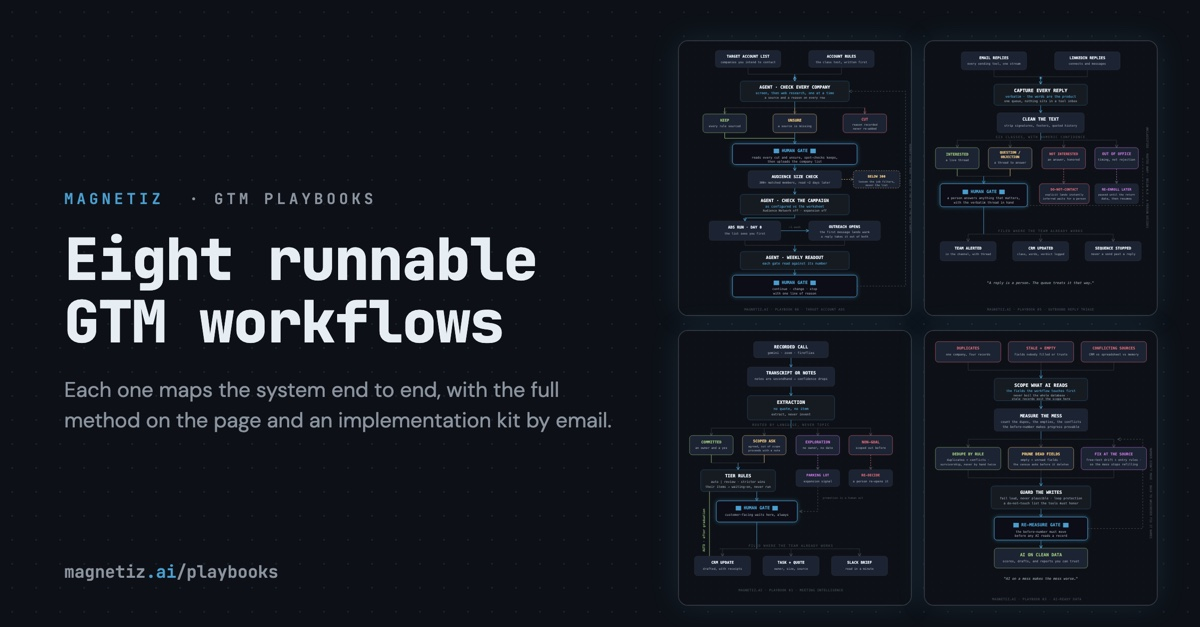
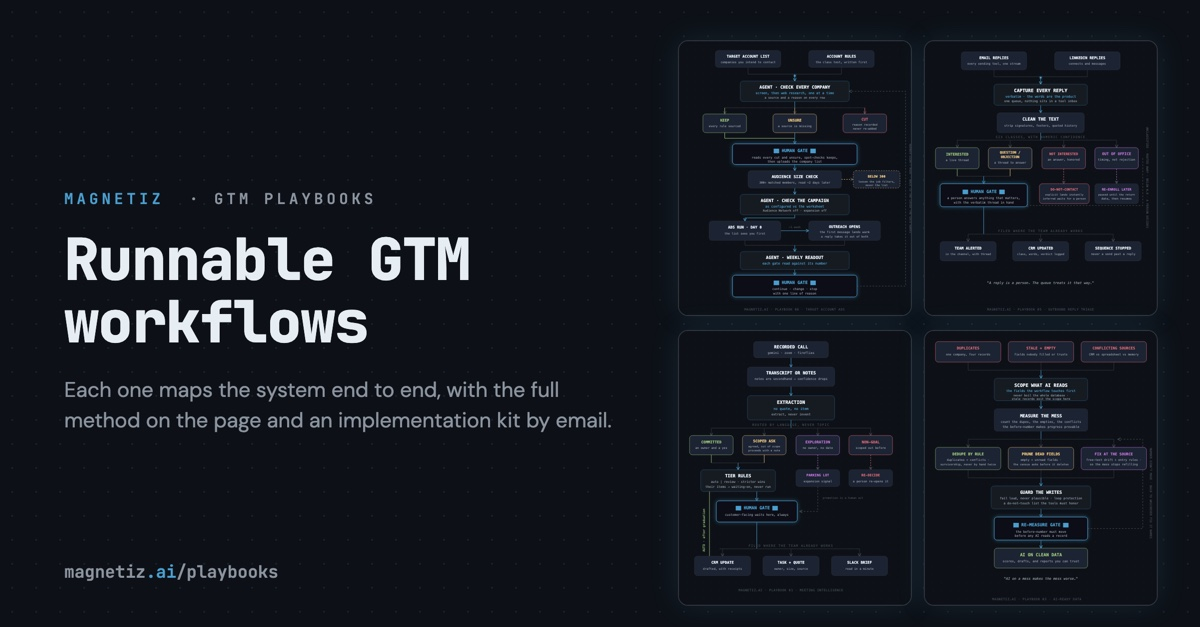
playbooks: index share image drops the count
'Eight runnable GTM workflows' goes stale every weekly release. Now 'Runnable GTM
workflows'. The og:image URL carries ?v=2 so LinkedIn re-fetches instead of serving
its cached copy.

Changed region(s): [[0.0308, 0.3636, 0.4625, 0.5455]]

diff --git a/playbooks.html b/playbooks.html
@@ -9,12 +9,12 @@
   <meta property="og:description" content="Complete, runnable GTM playbooks from systems Magnetiz operates in production. Full methodology public on every page, implementation kits by email.">
   <meta property="og:type" content="website">
   <meta property="og:url" content="https://www.magnetiz.ai/playbooks">
-  <meta property="og:image" content="https://www.magnetiz.ai/assets/og/playbooks.jpg">
+  <meta property="og:image" content="https://www.magnetiz.ai/assets/og/playbooks.jpg?v=2">
   <meta property="og:image:width" content="1200">
   <meta property="og:image:height" content="627">
   <meta property="og:image:alt" content="GTM Playbooks — Magnetiz.ai workflow diagram">
   <meta name="twitter:card" content="summary_large_image">
-  <meta name="twitter:image" content="https://www.magnetiz.ai/assets/og/playbooks.jpg">
+  <meta name="twitter:image" content="https://www.magnetiz.ai/assets/og/playbooks.jpg?v=2">
   <link rel="canonical" href="https://www.magnetiz.ai/playbooks">
 
   <!-- Fonts -->
